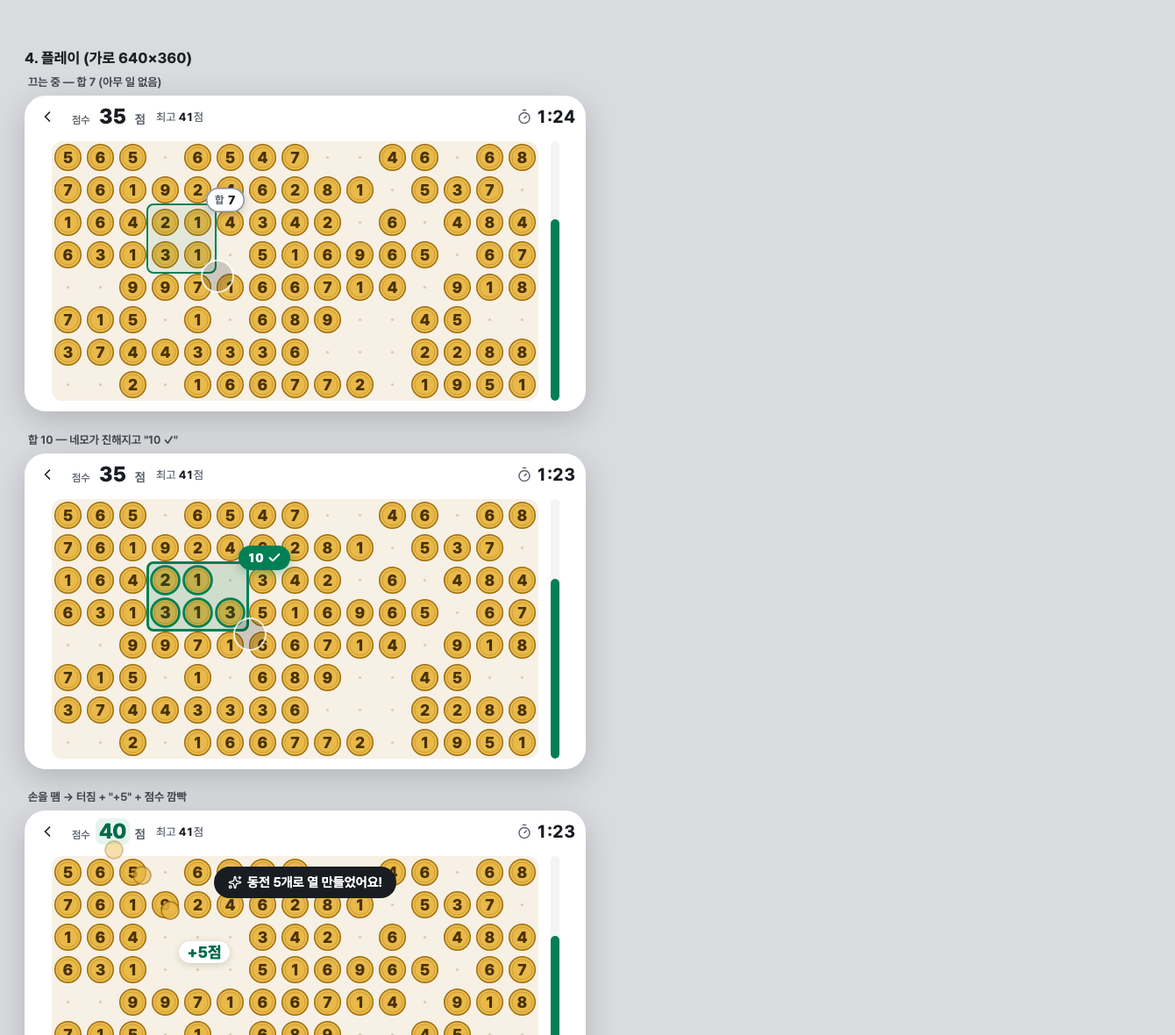
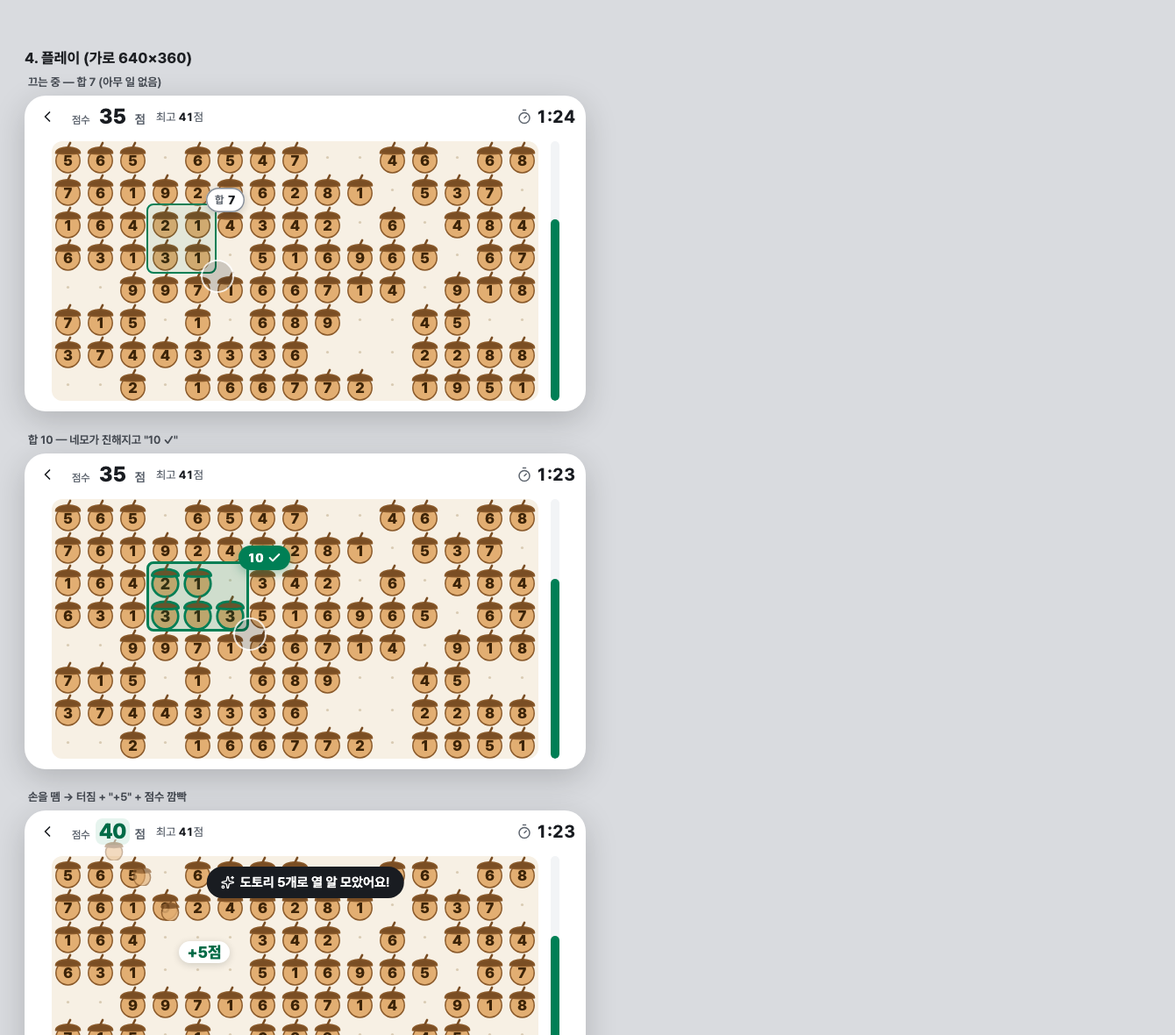
BANB-56 이름 확정 '도토리 열 알': 숫자 도토리 그림·색(acorn-*)·문구·시안 갱신

Changed region(s): [[0.0306, 0.122, 0.459, 0.3966], [0.0306, 0.4881, 0.459, 0.7322], [0.0306, 0.8237, 0.459, 1.0]]

diff --git a/docs/screens/play/ten.html b/docs/screens/play/ten.html
@@ -1,7 +1,7 @@
 <!doctype html>
 <html lang="ko"><head><meta charset="utf-8">
 <meta name="viewport" content="width=device-width, initial-scale=1">
-<title>딱 10원(가칭) 시안 (BANB-56)</title>
+<title>도토리 열 알 시안 (BANB-56)</title>
 <!-- 미리보기 전용 CDN. 앱은 npm pretendard / lucide-react 로 번들한다 -->
 <link rel="stylesheet" href="https://cdn.jsdelivr.net/gh/orioncactus/pretendard@v1.3.9/dist/web/variable/pretendardvariable-dynamic-subset.min.css">
 <script src="https://unpkg.com/lucide@1.69.0/dist/umd/lucide.min.js"></script>
@@ -184,9 +184,9 @@ svg.lucide { width:20px; height:20px; stroke-width:2; flex:none; }
 .betbig { margin-top:14px; padding:14px 16px; border-radius:16px; background:var(--color-primary-soft); }
 .betbig small { display:flex; justify-content:center; align-items:center; gap:4px; font-size:13px; color:var(--color-text-sub); } .betbig small svg { width:14px; height:14px; }
 .betbig b { display:block; font-size:22px; line-height:30px; font-weight:800; color:var(--color-primary-strong); margin-top:2px; letter-spacing:-0.01em; }
-/* ── v1.10 딱 10원 (design.md 1.10 · 5.40~5.44) — 새 토큰은 coin-ink 1개 ── */
-[data-theme="clean"]{--color-coin-ink:#4A3200;}
-[data-theme="clean"][data-mode="dark"]{--color-coin-ink:#2A1C00;}
+/* ── v1.10 도토리 열 알 (design.md 1.10 · 5.40~5.44) — 새 토큰 acorn-* 4개, 테마 공통 ── */
+[data-theme="clean"]{--color-acorn-body:#E2AE72;--color-acorn-cap:#7A4E24;--color-acorn-edge:#8A5A2B;--color-acorn-ink:#3D2408;}
+[data-theme="clean"][data-mode="dark"]{--color-acorn-body:#C68F55;--color-acorn-cap:#8C5F33;--color-acorn-edge:#E8C9A0;--color-acorn-ink:#24160A;}
 .land { width:640px; height:360px; position:relative; overflow:hidden; border-radius:24px; box-shadow:0 10px 36px rgb(0 0 0 / .18); background:var(--color-surface); color:var(--color-text); }
 .gtop { position:absolute; top:0; left:0; right:0; height:48px; display:flex; align-items:center; padding:0 12px 0 4px; gap:6px; z-index:2; }
 .gtop .ib { color:var(--color-text); }
@@ -251,8 +251,8 @@ svg.lucide { width:20px; height:20px; stroke-width:2; flex:none; }
 .ncard ul { padding-left:18px; margin:8px 0 0; }
 .ministrip .card { box-shadow:0 2px 10px rgb(0 0 0 / .08); border-radius:16px; }
 </style></head><body>
-<h1>딱 10원 (가칭 "숫자 모아 열 만들기") — 시안 (BANB-56)</h1>
-<p class="lead">기준: BANB-2 "새 게임: 숫자 모아 열 만들기(가칭) 명세"(2026-11-10 클라이언트 승인), design.md v1.10(1.10 coin-ink, 5.40~5.44). 클린 라이트 1테마만(토큰 절약). 게임은 <b>가로 640×360</b>(360×640 폰을 눕힌 크기), 메뉴·시작·회전 안내는 세로 360×760. 시안 이름은 추천안 <b>"딱 10원"</b>으로 그렸다(확정 전, 바꾸면 글자만 바뀜). 그림은 반반 쌓기의 동전(<code>piece-coin</code>) 식구 — 원작의 이름·과일 그림·초록 판·빨강·효과음은 쓰지 않는다. 나 = 민지(하늘), 상대 = 준호(노랑).</p>
+<h1>도토리 열 알 — 시안 (BANB-56)</h1>
+<p class="lead">기준: BANB-2 "새 게임: 숫자 모아 열 만들기(가칭) 명세"(2026-11-10 클라이언트 승인) + 클라이언트 결정(이름 <b>"도토리 열 알"</b>, 점수 "점"), design.md v1.10(1.10 acorn-*, 5.40~5.44). 클린 라이트 1테마만(토큰 절약). 게임은 <b>가로 640×360</b>(360×640 폰을 눕힌 크기), 메뉴·시작·회전 안내는 세로 360×760. 칸 그림은 banban 고유 <b>숫자 도토리</b>(갈색 몸통 + 짙은 깍정이) — 원작의 이름·과일 그림·빨강·초록 판·효과음은 쓰지 않는다. 나 = 민지(하늘), 상대 = 준호(노랑).</p>
 <div id="rows"></div>
 <script>
 const ic = (n, s='') => `<i data-lucide="${n}"${s?` style="${s}"`:''}></i>`;
@@ -263,13 +263,17 @@ const av = (p, size='', st='') => `<span class="av ${size} e-${P[p].e}"${st?` st
 const COLS = 15, ROWS = 8;
 function rng(seed){ let a = seed; return () => { a |= 0; a = a + 0x6D2B79F5 | 0; let t = Math.imul(a ^ a >>> 15, 1 | a); t = t + Math.imul(t ^ t >>> 7, 61 | t) ^ t; return ((t ^ t >>> 14) >>> 0) / 4294967296; }; }
 function makeGrid(seed, emptyRate=0){ const r = rng(seed); const g = []; for (let y=0;y<ROWS;y++){ const row=[]; for (let x=0;x<COLS;x++){ row.push(r() < emptyRate ? 0 : 1 + Math.floor(r()*9)); } g.push(row);} return g; }
+/* 숫자 도토리 (5.41): 몸통 원 + 깍정이(모자) + 꼭지, 숫자는 몸통 가운데 */
+const acornPath = (cx, cy, s) => { const r = s*0.37, by = cy + s*0.10; return { r, by, cap:`M${cx-s*0.38} ${cy-s*0.13} C${cx-s*0.38} ${cy-s*0.38} ${cx+s*0.38} ${cy-s*0.38} ${cx+s*0.38} ${cy-s*0.13} Q${cx} ${cy-s*0.07} ${cx-s*0.38} ${cy-s*0.13} Z` }; };
 const coin = (cx, cy, s, n, o={}) => {
-  const d = s*0.84, r = d/2;
   if (!n) return `<circle cx="${cx}" cy="${cy}" r="1.6" fill="var(--color-stack-dot)"/>`;
+  const { r, by, cap } = acornPath(cx, cy, s);
   const lift = o.lift ? `transform="translate(${cx} ${cy}) scale(1.08) translate(${-cx} ${-cy})"` : '';
-  return `<g ${lift} opacity="${o.op ?? 1}"><circle cx="${cx}" cy="${cy}" r="${r-0.75}" fill="var(--color-piece-coin)" stroke="${o.lift?'var(--color-primary)':'var(--color-piece-coin-edge)'}" stroke-width="${o.lift?2.5:1.5}"/>
-    <circle cx="${cx}" cy="${cy}" r="${r*0.74}" fill="none" stroke="var(--color-piece-coin-edge)" stroke-opacity=".35" stroke-width="1"/>
-    <text x="${cx}" y="${cy + s*0.165}" text-anchor="middle" font-size="${Math.round(s*0.48)}" font-weight="800" fill="var(--color-coin-ink)" font-family="Pretendard Variable, Pretendard, system-ui">${n}</text></g>`;
+  const ed = o.lift ? 'var(--color-primary)' : 'var(--color-acorn-edge)', w = o.lift ? 2.5 : 1.5;
+  return `<g ${lift} opacity="${o.op ?? 1}"><circle cx="${cx}" cy="${by}" r="${r}" fill="var(--color-acorn-body)" stroke="${ed}" stroke-width="${w}"/>
+    <path d="${cap}" fill="var(--color-acorn-cap)" stroke="${ed}" stroke-width="${w}" stroke-linejoin="round"/>
+    <line x1="${cx}" y1="${cy-s*0.31}" x2="${cx+s*0.07}" y2="${cy-s*0.45}" stroke="var(--color-acorn-cap)" stroke-width="${Math.max(2, s*0.07)}" stroke-linecap="round"/>
+    <text x="${cx}" y="${by + s*0.16}" text-anchor="middle" font-size="${Math.round(s*0.46)}" font-weight="800" fill="var(--color-acorn-ink)" font-family="Pretendard Variable, Pretendard, system-ui">${n}</text></g>`;
 };
 function boardSvg(g, s, o={}){
   let c = '';
@@ -318,14 +322,14 @@ const fA = land({ g:Ga, score:35, left:84, sel:[3,2,4,3], finger:true });
 const fB = land({ g:Gb, score:35, left:83, sel:[3,2,5,3], finger:true });
 const fC = land({ g:Gc, score:40, flash:true, left:83, extra:(bx,by,s) => {
   const [cx, cy] = cellXY(bx,by,s,4,2.5);
-  let fly = ''; [[0.25,0.55],[0.5,0.35],[0.75,0.15]].forEach(([t,op],i) => { const x = cx + (70 - cx)*t, y = cy + (24 - cy)*t - 20*Math.sin(Math.PI*t); fly += `<svg style="position:absolute;left:${x-12}px;top:${y-12}px;z-index:3" width="24" height="24"><circle cx="12" cy="12" r="10" fill="var(--color-piece-coin)" stroke="var(--color-piece-coin-edge)" stroke-width="1.5" opacity="${op+0.3}"/></svg>`; });
-  return `${fly}<div class="plusn" style="left:${cx-22}px;top:${cy-14}px">+5점</div><div class="gpill" style="top:${by+12}px">${ic('sparkles')}동전 5개로 열 만들었어요!</div>`; } });
+  let fly = ''; [[0.25,0.55],[0.5,0.35],[0.75,0.15]].forEach(([t,op],i) => { const x = cx + (70 - cx)*t, y = cy + (24 - cy)*t - 20*Math.sin(Math.PI*t); fly += `<svg style="position:absolute;left:${x-12}px;top:${y-12}px;z-index:3" width="24" height="24"><g opacity="${op+0.3}">${coin(12,12,26,' ')}</g></svg>`; });
+  return `${fly}<div class="plusn" style="left:${cx-22}px;top:${cy-14}px">+5점</div><div class="gpill" style="top:${by+12}px">${ic('sparkles')}도토리 5개로 열 알 모았어요!</div>`; } });
 const fD = land({ g:Glate, score:52, left:10, best:41, extra:(bx,by) => `<div class="gpill" style="top:${by+12}px">${ic('timer')}남은 시간 10초예요</div>` });
 
 /* 1인 결과 */
 const soloRes = (newBest) => land({ g:Glate, score: newBest?52:38, best: newBest?41:52, left:0, dim:.5, extra:() => `<div class="cscrim"></div>
   <div class="lcard" style="width:440px"><div style="display:flex;gap:14px;align-items:center">
-    <span class="circ56 ${newBest?'p':''}">${ic(newBest?'trophy':'coins')}</span>
+    <span class="circ56 ${newBest?'p':''}">${ic(newBest?'trophy':'nut')}</span>
     <div style="flex:1"><h3>${newBest?'새 최고 기록이에요!':'끝났어요'}</h3><p>${newBest?'지난 최고 41점보다 11점 더 얻었어요':'내 최고 기록은 <b class="num" style="color:var(--color-text)">52점</b>예요'}</p></div>
     <div class="bigsc">${newBest?52:38}<small>점</small></div></div>
     <div class="rec" style="margin-top:16px">${av('j','', 'width:24px;height:24px;font-size:11px')}<span>준호님 최고 기록 <b class="num">47점</b>${newBest?' — 내가 앞섰어요':''}</span></div>
@@ -351,50 +355,46 @@ const menu = `<div class="phone"><div class="sh"><span class="ib">${ic('chevron-
   <div class="card" style="padding:8px 0"><p class="sect" style="padding-top:8px">둘이 같이</p>
     ${row('grid-3x3','오목','준호님과 <b style="display:inline;font-size:13px" class="num">3승 2패 1무</b>')}
     ${row('receipt','반반 쌓기 대전','줄을 지워 영수증을 보내요')}
-    ${row('hand-coins','딱 10원 대전','같은 판으로 2분 동안 겨뤄요', true)}
+    ${row('swords','도토리 열 알 대전','같은 판으로 2분 동안 겨뤄요', true)}
     <p class="sect" style="padding-top:8px">혼자서</p>
     ${row('piggy-bank','반반 쌓기','내 최고 <b style="display:inline;font-size:13px" class="num">280점</b>')}
-    ${row('coins','딱 10원','내 최고 <b style="display:inline;font-size:13px" class="num">41점</b>', true)}</div>
-  <div class="card" style="padding:4px 0"><div class="srow">${ic('vibrate')}<div style="flex:1"><div>진동</div><div style="font-size:13px;color:var(--color-text-sub)">줄을 지우거나 열을 만들 때 짧게 울려요</div></div><span class="sw"></span></div></div>
+    ${row('nut','도토리 열 알','내 최고 <b style="display:inline;font-size:13px" class="num">41점</b>', true)}</div>
+  <div class="card" style="padding:4px 0"><div class="srow">${ic('vibrate')}<div style="flex:1"><div>진동</div><div style="font-size:13px;color:var(--color-text-sub)">줄을 지우거나 도토리를 모을 때 짧게 울려요</div></div><span class="sw"></span></div></div>
 </div></div></div>`;
 const mini = (() => { const g = [[3,0,5,2,6],[7,4,1,9,1],[2,0,8,3,5]], s = 40; let c=''; g.forEach((r,y)=>r.forEach((n,x)=>{ const ls = x>=1&&x<=2&&y>=0&&y<=1; c += coin(x*s+s/2, y*s+s/2, s, n, {lift:ls}); }));
   return `<div style="position:relative;width:200px;height:120px;margin:0 auto"><svg width="200" height="120" style="background:var(--color-stack-board);border-radius:12px">${c}</svg><div class="sel ten" style="left:${s-3}px;top:-3px;width:${2*s+6}px;height:${2*s+6}px"></div><div class="sum ten" style="left:${3*s-10}px;top:-16px;height:24px;font-size:13px">10${ic('check','width:14px;height:14px;stroke-width:3')}</div></div>`; })();
-const start = `<div class="phone"><div class="sh"><span class="ib">${ic('chevron-left')}</span><b>딱 10원</b></div><div class="scroll" style="bottom:80px"><div class="stack" style="padding-top:12px">
-  <div class="card" style="text-align:center;padding-top:24px">${mini}<div class="t18" style="margin-top:16px">숫자 동전을 네모로 묶어<br>딱 10원을 만들어요</div></div>
+const start = `<div class="phone"><div class="sh"><span class="ib">${ic('chevron-left')}</span><b>도토리 열 알</b></div><div class="scroll" style="bottom:80px"><div class="stack" style="padding-top:12px">
+  <div class="card" style="text-align:center;padding-top:24px">${mini}<div class="t18" style="margin-top:16px">숫자 도토리를 네모로 묶어<br>합 10을 만들어요</div></div>
   <div class="card"><div class="k">내 최고 기록</div><div class="big num">41<span style="font-size:18px;font-weight:600;color:var(--color-text-sub);margin-left:2px">점</span></div>
     <div class="rec" style="justify-content:flex-start;padding:0 12px;margin-top:12px">${av('j','', 'width:24px;height:24px;font-size:11px')}<span style="font-weight:500">준호님 최고 기록 <b class="num">47점</b>예요</span></div></div>
   <div class="card"><div class="k">이렇게 해요</div><div class="howto">
     <div><span class="c">${ic('square-dashed-mouse-pointer')}</span>손가락으로 끌어 네모를 그려요</div>
-    <div><span class="c">${ic('equal')}</span>네모 안 숫자 합이 10이면 동전이 모여요</div>
+    <div><span class="c">${ic('equal')}</span>네모 안 숫자 합이 10이면 도토리를 모아요</div>
     <div><span class="c">${ic('timer')}</span>2분 동안 많이 모을수록 좋아요</div></div></div>
 </div></div><div class="fix"><div class="btn1">${ic('play')}시작하기</div></div></div>`;
-const rotBefore = `<div class="phone"><div class="sh"><span class="ib">${ic('chevron-left')}</span><b>딱 10원</b></div><div class="rot">
+const rotBefore = `<div class="phone"><div class="sh"><span class="ib">${ic('chevron-left')}</span><b>도토리 열 알</b></div><div class="rot">
   <div class="rotart"><span class="ph1"></span><span class="ph2"></span>${ic('rotate-cw')}</div>
   <h3>가로로 돌려 주세요</h3><p>판이 옆으로 넓어서 폰을 눕혀서 해요.<br>돌리면 3초 뒤에 시작해요</p>
   <div class="hint" style="margin-top:24px;text-align:left">${ic('info')}<span>화면이 안 돌아가면 기기의 <b>화면 회전 잠금</b>을 꺼 주세요</span></div></div>
   <div class="fix"><div class="btn2" style="flex:1">나가기</div></div></div>`;
-const rotDuring = `<div class="phone"><div class="sh"><span class="ib">${ic('chevron-left')}</span><b>딱 10원</b></div><div class="rot">
+const rotDuring = `<div class="phone"><div class="sh"><span class="ib">${ic('chevron-left')}</span><b>도토리 열 알</b></div><div class="rot">
   <div class="rotart"><span class="ph1"></span><span class="ph2"></span>${ic('rotate-cw')}</div>
   <h3>가로로 돌려 주세요</h3><p>게임은 멈추지 않아요.<br>시간이 계속 흐르고 있어요</p>
   <div class="paused"><div><small>남은 시간</small><b class="t">1:12</b></div><div><small>점수</small><b>35점</b></div></div></div></div>`;
 
-/* ── 이름 후보 ── */
-const acorn = (cx, cy, s, n) => `<g><ellipse cx="${cx}" cy="${cy+s*0.08}" rx="${s*0.36}" ry="${s*0.38}" fill="#D9A066" stroke="#8A5A2B" stroke-width="1.5"/><path d="M${cx-s*0.42} ${cy-s*0.12} Q${cx} ${cy-s*0.5} ${cx+s*0.42} ${cy-s*0.12} Z" fill="#8A5A2B"/><line x1="${cx}" y1="${cy-s*0.4}" x2="${cx+s*0.06}" y2="${cy-s*0.5}" stroke="#5E3B17" stroke-width="2.5" stroke-linecap="round"/><text x="${cx}" y="${cy+s*0.26}" text-anchor="middle" font-size="${s*0.4}" font-weight="800" fill="#3D2408" font-family="Pretendard Variable">${n}</text></g>`;
-const button = (cx, cy, s, n) => `<g><circle cx="${cx}" cy="${cy}" r="${s*0.42}" fill="#9EC5E8" stroke="#3E6E99" stroke-width="1.5"/><circle cx="${cx}" cy="${cy}" r="${s*0.33}" fill="none" stroke="#3E6E99" stroke-opacity=".4"/>${[[-1,-1],[1,-1],[-1,1],[1,1]].map(([a,b])=>`<circle cx="${cx+a*s*0.2}" cy="${cy+b*s*0.2}" r="${s*0.035}" fill="#3E6E99" opacity=".5"/>`).join('')}<text x="${cx}" y="${cy+s*0.15}" text-anchor="middle" font-size="${s*0.42}" font-weight="800" fill="#13324F" font-family="Pretendard Variable">${n}</text></g>`;
-const art = f => { const s = 44, ns = [[3,7,2,5],[6,1,4,8]]; let c=''; ns.forEach((r,y)=>r.forEach((n,x)=>{ c += f(x*s+s/2+4, y*s+s/2+4, s, n); })); return `<svg width="${4*s+8}" height="${2*s+8}">${c}</svg>`; };
-const names = `<div class="row" style="gap:16px">
-  <div class="ncard pick"><div class="art">${art((x,y,s,n)=>coin(x,y,s,n))}</div><h3>딱 10원 <em>추천</em></h3><b>숫자 동전(1~9원)을 묶어 10원 만들기</b>
-    <ul><li>가계부 앱다운 그림. 반반 쌓기 동전과 한 식구라 새 그림·색이 거의 없다(새 토큰 1개)</li><li>점수는 "점"(동전 1개 = 1점) — 클라이언트 결정</li><li>대전 이름도 자연스럽다: "딱 10원 대전"</li><li>걸림: 이름엔 "원"이 있지만 점수는 "점"이다</li></ul></div>
-  <div class="ncard"><div class="art">${art(acorn)}</div><h3>도토리 열 알</h3><b>숫자 도토리를 모아 열 알 채우기</b>
-    <ul><li>가장 따뜻하고 귀여운 느낌</li><li>도토리 그림·갈색 2개를 새로 만들어야 한다</li><li>가계부와 이어지는 이야기가 약하다</li></ul></div>
-  <div class="ncard"><div class="art">${art(button)}</div><h3>열 맞춤</h3><b>숫자 단추를 묶어 합 열 맞추기</b>
-    <ul><li>규칙이 이름에 그대로 — 처음 봐도 안다</li><li>중립적이라 기억에 덜 남는다</li><li>단추 그림·파랑 계열을 새로 만들어야 한다</li></ul></div></div>`;
+/* ── 숫자 도토리 정의 ── */
+const acornSet = (() => { const s = 56; let c=''; [1,2,3,4,5,6,7,8,9].forEach((n,i)=>{ c += coin(i*s+s/2+6, s/2+6, s, n); }); return `<svg width="${9*s+12}" height="${s+12}">${c}</svg>`; })();
+const acornStates = (() => { const s = 56; return `<svg width="${3*s+40}" height="${s+12}">${coin(s/2+6, s/2+6, s, 7)}${coin(s*1.5+26, s/2+6, s, 3, {lift:true})}${coin(s*2.5+40, s/2+6, s, 0)}</svg>`; })();
+const names = `<div class="ncard" style="width:620px"><div class="art">${acornSet}</div><h3>도토리 열 알 <em>확정</em></h3><b>숫자 도토리(1~9)를 네모로 묶어 합 10 = 도토리 열 알을 모은다</b>
+  <ul><li>몸통 = 원(지름 s × 0.74) <code>acorn-body</code> + 1.5px <code>acorn-edge</code>, 위쪽 깍정이(모자) <code>acorn-cap</code>, 짧은 꼭지. 숫자는 몸통 가운데 s × 0.46 /800 <code>acorn-ink</code></li>
+  <li>색은 갈색 계열 4개뿐, 테마 공통. 빨강·초록·잎을 쓰지 않아 과일과 겹치지 않는다</li><li>판은 반반 쌓기 크림 판(<code>stack-board</code>) 그대로 — 따뜻한 톤</li></ul>
+  <div class="art" style="margin-top:12px;gap:20px;align-items:center">${acornStates}<span style="font-size:12px;color:#5F6670;line-height:18px">보통 · 합 10 네모 안(테두리 <code>primary</code> + 1.08배) · 빈칸(점)</span></div></div>`;
 
 const SCREENS = [
-  ['names','1. 이름 · 그림 후보 (클라이언트 확정 필요)', [[names,'후보 3개 — 같은 판 일부를 각 그림으로']], ['세 후보 모두 원작 이름("사과")·과일 그림·초록 판·빨강을 쓰지 않는다', '<b>추천: 딱 10원</b> — 가계부 앱 안의 게임이라 "돈"으로 이야기가 이어지고, 반반 쌓기 동전 그림·색을 그대로 써서 새 토큰이 1개(숫자 글자색)뿐이다', '나머지 시안은 모두 "딱 10원"으로 그렸다. 다른 후보로 정해지면 그림(칸 1개)과 글자만 바꾼다 — 배치·크기·동작은 같다']],
-  ['menu','2. 게임 고르기 · 시작 (세로)', [[menu,'미니게임 화면 — 행 2개 추가'],[start,'시작 화면'],[rotBefore,'시작하기 → 세로면 "가로로 돌려 주세요"']], ['미니게임 화면: "혼자서"에 <b>딱 10원</b>(`Coins`, 보조 "내 최고 41점", 없으면 "합이 10이 되게 동전을 묶어요"), "둘이 같이"에 <b>딱 10원 대전</b>(`HandCoins`, 보조 = 전적, 없으면 "같은 판으로 2분 동안 겨뤄요")', '대전 행 → 상대 고르기·내기·대기실은 반반 쌓기 대전(5.36) 그대로', '시작 화면은 세로: 그림 카드(합 10 네모 예시) → 기록 카드 → 이렇게 해요 3줄 → 시작하기', '시작하기를 눌렀는데 세로면 회전 안내 화면. 가로가 되면 3초 세기 후 시작. 이미 가로면 바로 3초 세기']],
-  ['rotate','3. 가로로 돌려 주세요 (세로일 때)', [[rotBefore,'시작 전'],[rotDuring,'게임 중 세로로 돌림']], ['방향 고정이 안 되는 PWA·iOS Safari 대비. 세로가 되면 판 대신 이 화면', '게임 중: <b>멈추지 않는다</b>(명세 — 시간은 흐름). 남은 시간·모은 동전을 보여 줘 급한 걸 알게. 남은 시간 숫자는 매초 바뀜', '버튼 없이 돌리기만 하면 바로 판으로 돌아간다. 시작 전 화면에만 "나가기"', '그림: 연한 세로 폰 → 진한 가로 폰 + `RotateCw`(아이콘 세트 Lucide 그대로, 새 그림 아님)']],
-  ['play','4. 플레이 (가로 640×360)', [[fA,'끄는 중 — 합 7 (아무 일 없음)'],[fB,'합 10 — 네모가 진해지고 "10 ✓"'],[fC,'손을 뗌 → 터짐 + "+5" + 점수 깜빡'],[fD,'남은 10초']], ['정보 배치는 익숙하게: <b>점수 왼쪽 위, 남은 시간 오른쪽 위 + 판 오른쪽 세로 막대</b>(위에서 아래로 줄어듦). 판은 가운데 크게', '칸 s = floor(min((폭 − 72) / 15, (높이 − 64) / 8)), 30~48. 640×360 → 37(판 555×296), 667×375 → 38, 932×430 → 45. 좌우 노치는 safe-area만큼 더 띄운다', '네모: 손가락이 처음 닿은 칸 ~ 지금 칸까지(칸 단위로 딱 맞춤). 2px `primary` + 8% 바탕. 네모 오른쪽 위 알약에 <b>합</b>을 늘 보여 준다', '합 = 10: 테두리 3px + 16% 바탕, 알약이 `primary` "10 ✓", 안의 동전 테두리 `primary` + 살짝 커짐(1.08). 진동 켬이면 10이 되는 순간 짧게(15ms)', '손을 떼면 합 10: 동전이 0.15초 커졌다 점수 쪽으로 날아감(0.4초) → 자리에 "+5점" 0.6초 → 점수 숫자 바탕 0.3초 깜빡. 빈칸은 다시 채우지 않음(작은 점만)', '첫 번째 터짐과 4개 이상 한 번에는 알약 "열 만들었어요!" / "동전 5개로 열 만들었어요!" 1.2초. 나머지는 "+N점"만(시끄럽지 않게)', '합이 10이 아니면: 네모만 사라짐(벌점·흔들림 없음)', '점수 단위는 "점"(클라이언트 결정 2026-11-10), 동전 1개 = 1점. 남은 10초: 시간 숫자 `primary-strong` + 알약 "남은 시간 10초예요" 1.2초 1번. 소리 없음(효과음 자리도 안 만듦)', '‹ = 나가기 확인 창 "그만할까요? 이번 판 기록은 남지 않아요"(1인) — 창이 떠도 시간은 흐름']],
+  ['acorn','1. 숫자 도토리 (이름 확정: 도토리 열 알)', [[names,'1~9 · 상태 3가지 (칸 56 확대)']], ['클라이언트 확정 2026-11-10: 이름 "도토리 열 알", 대전 "도토리 열 알 대전"', '도토리 1개 = 1점. 터지면 "+5점", 알약 "도토리 5개로 열 알 모았어요!"', '대비: 숫자/몸통 7.24(다크 6.25), 테두리/판 5.18(다크 9.6)']],
+  ['menu','2. 게임 고르기 · 시작 (세로)', [[menu,'미니게임 화면 — 행 2개 추가'],[start,'시작 화면'],[rotBefore,'시작하기 → 세로면 "가로로 돌려 주세요"']], ['미니게임 화면: "혼자서"에 <b>도토리 열 알</b>(`Nut`, 보조 "내 최고 41점", 없으면 "합이 10이 되게 도토리를 묶어요"), "둘이 같이"에 <b>도토리 열 알 대전</b>(`Swords`, 보조 = 전적, 없으면 "같은 판으로 2분 동안 겨뤄요")', '대전 행 → 상대 고르기·내기·대기실은 반반 쌓기 대전(5.36) 그대로', '시작 화면은 세로: 그림 카드(합 10 네모 예시) → 기록 카드 → 이렇게 해요 3줄 → 시작하기', '시작하기를 눌렀는데 세로면 회전 안내 화면. 가로가 되면 3초 세기 후 시작. 이미 가로면 바로 3초 세기']],
+  ['rotate','3. 가로로 돌려 주세요 (세로일 때)', [[rotBefore,'시작 전'],[rotDuring,'게임 중 세로로 돌림']], ['방향 고정이 안 되는 PWA·iOS Safari 대비. 세로가 되면 판 대신 이 화면', '게임 중: <b>멈추지 않는다</b>(명세 — 시간은 흐름). 남은 시간·점수를 보여 줘 급한 걸 알게. 남은 시간 숫자는 매초 바뀜', '버튼 없이 돌리기만 하면 바로 판으로 돌아간다. 시작 전 화면에만 "나가기"', '그림: 연한 세로 폰 → 진한 가로 폰 + `RotateCw`(아이콘 세트 Lucide 그대로, 새 그림 아님)']],
+  ['play','4. 플레이 (가로 640×360)', [[fA,'끄는 중 — 합 7 (아무 일 없음)'],[fB,'합 10 — 네모가 진해지고 "10 ✓"'],[fC,'손을 뗌 → 터짐 + "+5" + 점수 깜빡'],[fD,'남은 10초']], ['정보 배치는 익숙하게: <b>점수 왼쪽 위, 남은 시간 오른쪽 위 + 판 오른쪽 세로 막대</b>(위에서 아래로 줄어듦). 판은 가운데 크게', '칸 s = floor(min((폭 − 72) / 15, (높이 − 64) / 8)), 30~48. 640×360 → 37(판 555×296), 667×375 → 38, 932×430 → 45. 좌우 노치는 safe-area만큼 더 띄운다', '네모: 손가락이 처음 닿은 칸 ~ 지금 칸까지(칸 단위로 딱 맞춤). 2px `primary` + 8% 바탕. 네모 오른쪽 위 알약에 <b>합</b>을 늘 보여 준다', '합 = 10: 테두리 3px + 16% 바탕, 알약이 `primary` "10 ✓", 안의 도토리 테두리 `primary` + 살짝 커짐(1.08). 진동 켬이면 10이 되는 순간 짧게(15ms)', '손을 떼면 합 10: 도토리가 0.15초 커졌다 점수 쪽으로 날아감(0.4초) → 자리에 "+5점" 0.6초 → 점수 숫자 바탕 0.3초 깜빡. 빈칸은 다시 채우지 않음(작은 점만)', '첫 번째 터짐과 4개 이상 한 번에는 알약 "열 알 모았어요!" / "도토리 5개로 열 알 모았어요!" 1.2초. 나머지는 "+N점"만(시끄럽지 않게)', '합이 10이 아니면: 네모만 사라짐(벌점·흔들림 없음)', '점수 단위는 "점"(클라이언트 결정 2026-11-10), 도토리 1개 = 1점. 남은 10초: 시간 숫자 `primary-strong` + 알약 "남은 시간 10초예요" 1.2초 1번. 소리 없음(효과음 자리도 안 만듦)', '‹ = 나가기 확인 창 "그만할까요? 이번 판 기록은 남지 않아요"(1인) — 창이 떠도 시간은 흐름']],
   ['solo','5. 1인 결과', [[soloRes(true),'새 최고 기록'],[soloRes(false),'보통']], ['판을 흐리게 두고 가운데 카드(가로라 바텀시트 대신). 왼쪽 아이콘·제목, 오른쪽 큰 점수 40/800 + "점"', '최고 기록 = 반반 쌓기 기록 저장 재사용(가계부 × 멤버 최고 1개). 멤버 비교 줄은 반반 쌓기 5.34 규칙', '한 판 더 = 새 시드로 바로 3초 세기. 나가기 → 미니게임 화면(세로)', '첫 판(기록 없음) → 제목 "첫 기록이에요!", 0점 → "다음엔 하나 만들어 봐요"']],
   ['versus','6. 대전', [[vCount,'3초 세기 — 같은 판'],[vPlay,'플레이 — 상대 점수 작게 + 받은 반응'],[vOff,'상대 끊김 · 남은 10초'],[vWait,'끝 — 점수 맞춰 보는 중'],[vRes(true),'결과 — 이김 + 내기'],[vRes(false),'결과 — 짐']], ['둘 다 들어오면 같은 시드 판을 흐리게 보여 주고 3·2·1(마감 시각은 서버 기준). 알약 "같은 판으로 동시에 시작해요"', '상대 점수: 내 점수 옆 회색 알약 [아바타 28] "준호 31" — 내 점수(24/800)보다 작게(17/800). 0.5초마다 갱신. 판은 보여 주지 않는다(같은 판이라 정답 힌트가 됨)', '이모지 반응: 반반 쌓기 대전(5.37) 그대로 — `SmilePlus`, 받은 이모지는 상대 알약 아래 말풍선 2초, 보낸 뒤 3초 쉼', '상대 끊김: 판은 각자 독립이라 <b>멈추지 않는다</b>. 상대 알약 흐림 + `WifiOff` + 마지막 점수, 토스트 1번 "준호님 연결이 끊겼어요. 판은 그대로 이어져요". 돌아오면 토스트 "준호님이 돌아왔어요"', '내가 끊김: 판은 계속, 위에 작은 알약 "연결이 끊겼어요. 다시 연결되면 점수를 보낼게요"(그림 없음)', '시간이 끝나면 드래그 기록을 보내고 "점수를 맞춰 보는 중이에요"(최대 5초 — 명세). 화면 점수는 참고, 결과는 서버 계산값', '결과: 왼쪽 제목 + 한 줄 "준호님 32점, 나 35점" + 점수 2칸(이긴 쪽 테두리), 오른쪽 내기 상자·전적·버튼. 무승부 = `Handshake` "비겼어요!" / 내기 상자 "이번엔 둘 다 무사해요"', '서버 점수가 화면 점수와 다르면 결과는 서버 값만 보여 준다(설명 문구 없음 — 정상 조작이면 같음)']],
 ];

diff --git a/docs/screens/play/README.md b/docs/screens/play/README.md
@@ -99,37 +99,35 @@
 2. **"4줄 이상 → 3장"은 실제로 나오지 않는다**: 조각은 최대 3줄에 걸치므로 한 번에 지울 수 있는 건 3줄(2장)까지다. 표는 그대로 두되, 3장을 원하면 규칙을 바꿔야 한다.
 3. 대전에서는 "모은 돈"을 보여 주지 않고 **지운 줄**만 센다(결과도 지운 줄·보낸 영수증).
 
-## 새 게임 "딱 10원"(가칭 "숫자 모아 열 만들기") 시안 (BANB-56)
+## 새 게임 "도토리 열 알" 시안 (BANB-56)
 
-기준은 BANB-2 "새 게임: 숫자 모아 열 만들기(가칭) 명세"(2026-11-10 클라이언트 승인)다. 규칙은 `docs/design.md` v1.10(1.10, 5.40~5.44)에 있다.
+기준은 BANB-2 "새 게임: 숫자 모아 열 만들기(가칭) 명세"(2026-11-10 클라이언트 승인)와 클라이언트 결정(이름 "도토리 열 알", 점수 "점")이다. 규칙은 `docs/design.md` v1.10(1.10, 5.40~5.44)에 있다.
 
-- `ten.html`: 클린 라이트만(토큰 절약). 게임은 가로 640×360, 메뉴·시작·회전 안내는 세로 360×760. `?s=names|menu|rotate|play|solo|versus`, `&bare`는 다른 시안과 같다.
+- `ten.html`: 클린 라이트만(토큰 절약). 게임은 가로 640×360, 메뉴·시작·회전 안내는 세로 360×760. `?s=acorn|menu|rotate|play|solo|versus`, `&bare`는 다른 시안과 같다.
 - `img/ten-*.png`: 줄별 스크린샷 6장.
-- 새 토큰은 `coin-ink` 1개(동전 위 숫자색, 테마 공통)뿐이다. 동전·판 색은 반반 쌓기(1.8)를 그대로 쓴다.
-- 이름은 **클라이언트 확정 전**이다. 시안은 추천안 "딱 10원"으로 그렸고, 다른 후보로 정하면 칸 그림과 글자만 바뀐다.
+- 새 토큰은 도토리 색 4개(`acorn-body`, `acorn-cap`, `acorn-edge`, `acorn-ink`)이고 모두 테마 공통이다. 판은 반반 쌓기 크림 판(1.8)을 그대로 쓴다.
 
 ### 커버리지 (이슈 할 일 기준)
 
 | 할 일 | 상태 | 그림 |
 |---|---|---|
-| 이름 후보 2~3개 + banban 고유 그림 | 반영. 딱 10원(추천, 숫자 동전) · 도토리 열 알 · 열 맞춤(숫자 단추) | `ten-names` |
+| 이름 · banban 고유 그림 | 반영. 후보 3개 중 클라이언트가 "도토리 열 알"을 확정했다. 숫자 도토리 1~9와 상태 3가지를 그렸다 | `ten-acorn` |
 | 가로 판 15×8, 칸 크기 | 반영. 칸 공식은 5.41(640×360 → 37) | `ten-play` |
 | 드래그 네모 · 합 표시 · 터짐 효과 | 반영. 합 7, 합 10, 터진 직후를 그렸다. 움직임은 5.41에 글로 적었다 | `ten-play` |
-| 타이머 · 점수 | 반영. 점수 왼쪽 위, 남은 시간 오른쪽 위 + 판 오른쪽 세로 막대, 남은 10초 | `ten-play` |
+| 타이머 · 점수 | 반영. 점수는 왼쪽 위(도토리 1개 = 1점), 남은 시간은 오른쪽 위 + 판 오른쪽 세로 막대. 남은 10초도 그렸다 | `ten-play` |
 | "가로로 돌려 주세요" | 반영. 시작 전, 게임 중(시간 흐름) | `ten-rotate` |
-| 1인 결과 · 최고 기록 | 반영. 새 최고 기록과 보통 결과를 그렸다. 첫 판과 0개는 5.43 표에 글로만 있다 | `ten-solo` |
+| 1인 결과 · 최고 기록 | 반영. 새 최고 기록과 보통 결과를 그렸다. 첫 판과 0점은 5.43 표에 글로만 있다 | `ten-solo` |
 | 대전 (상대 점수 작게 · 카운트다운 · 결과) | 반영. 3초 세기, 플레이(반응 받음), 상대 끊김, 점수 맞추는 중, 이김, 짐. 무승부는 5.44 표에 글로만 있다 | `ten-versus` |
 | 게임 고르기 카드 | 반영. 미니게임 화면에 행 2개, 시작 화면 | `ten-menu` |
 | 초대 · 내기 · 대기실 | 그리지 않았다. 반반 쌓기 대전(`versus.html` 1)을 그대로 쓴다 | — |
-| 다크 · 베리 · 포근 | **그리지 않았다.** 토큰 절약 규칙. 새 색의 다크 값만 1.10에 있다 | — |
+| 다크 · 베리 · 포근 | **그리지 않았다.** 토큰 절약 규칙. 도토리 색 다크 값만 1.10에 있다 | — |
 
 ### 기획·개발 확인 필요
 
-1. **이름 확정**(클라이언트): 딱 10원(추천) / 도토리 열 알 / 열 맞춤.
-2. **원작과 닮은 정도**: 둥근 칸 안 숫자, 오른쪽 세로 타이머 막대는 장르상 원작과 비슷하다(명세의 "정보 배치는 익숙하게"에 따름). 이름·그림·색(초록 판·빨강 과일)·효과음은 다르다. 디자인 판단으로는 "너무 비슷함"에 해당하지 않는다.
-3. **상대 판 미리보기 없음**: 반반 쌓기 대전과 달리 상대 판을 보여 주지 않는다. 같은 시드라 상대가 어디를 지웠는지가 답 힌트가 되기 때문이다.
-4. iOS Safari 탭(홈 화면 추가 전)은 가로에서 주소창이 높이를 먹는다. 칸은 최소 30이라 화면 높이가 304px보다 낮으면 판 아래가 잘릴 수 있다. 실기기 확인이 필요하다(잘리면 위 줄을 판 왼쪽 세로로 옮기는 안을 다음에 낸다).
+1. **원작과 닮은 정도**: 둥근 칸 안 숫자, 오른쪽 세로 타이머 막대는 장르상 원작과 비슷하다(명세의 "정보 배치는 익숙하게"에 따름). 이름·그림(도토리 vs 과일)·색(갈색 vs 빨강·초록)·효과음은 다르다. 디자인 판단으로는 "너무 비슷함"에 해당하지 않는다.
+2. **상대 판 미리보기 없음**: 반반 쌓기 대전과 달리 상대 판을 보여 주지 않는다. 같은 시드라 상대가 어디를 지웠는지가 답 힌트가 되기 때문이다.
+3. iOS Safari 탭(홈 화면 추가 전)은 가로에서 주소창이 높이를 먹는다. 칸은 최소 30이라 화면 높이가 304px보다 낮으면 판 아래가 잘릴 수 있다. 실기기 확인이 필요하다(잘리면 위 줄을 판 왼쪽 세로로 옮기는 안을 다음에 낸다).
 
 ### 점수 표기 변경 (클라이언트 결정 2026-11-10)
 
-미니게임 점수는 원이 아니라 **"점"**이다. `design.md` 5.32~5.44를 고쳤다(반반 쌓기 1줄 10점 · 2줄 30점 · 3줄 60점, "저금" → "지웠어요"). `ten.html`과 `img/ten-*.png`도 새 표기로 바꿨다. **`stack.html`·`versus.html`과 그 그림은 옛 표기(원·저금)로 남아 있다. 서로 다르면 design.md를 따른다.**
+미니게임 점수는 원이 아니라 **"점"**이다. `design.md` 5.32~5.44를 고쳤다(반반 쌓기 1줄 10점 · 2줄 30점 · 3줄 60점, "저금" → "지웠어요"). **`stack.html`·`versus.html`과 그 그림은 옛 표기(원·저금)로 남아 있다. 서로 다르면 design.md를 따른다.**
